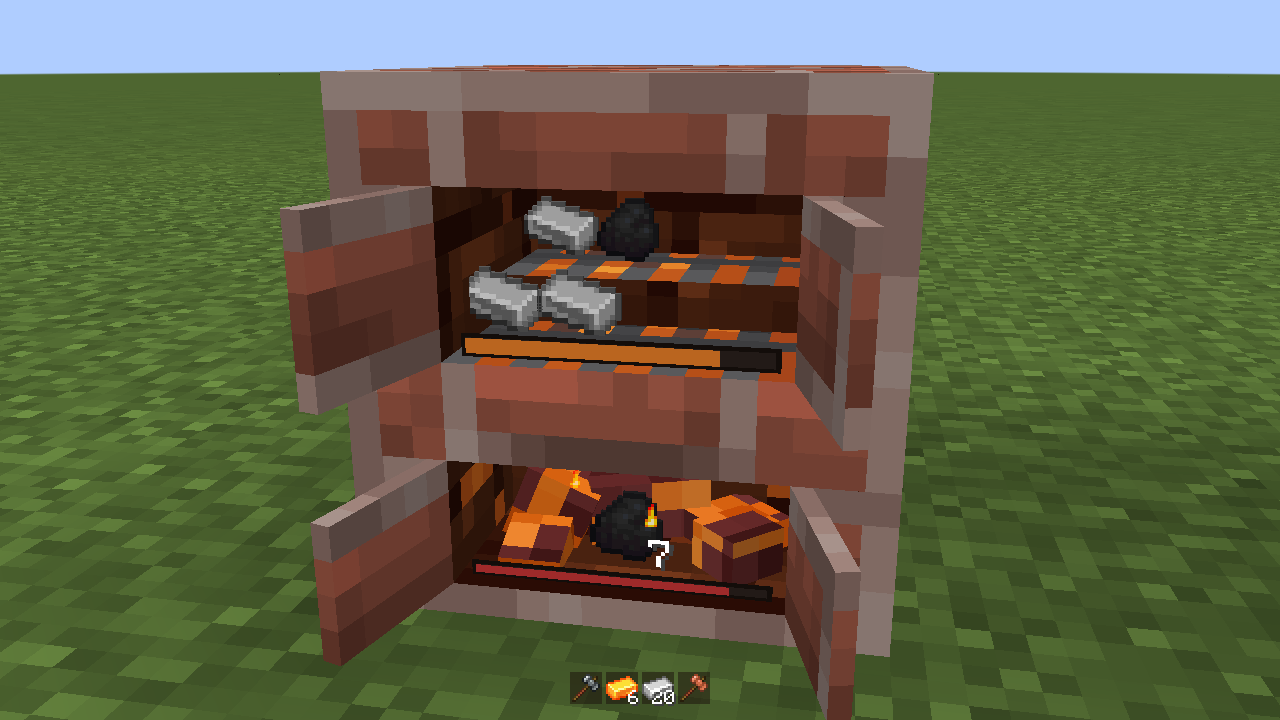
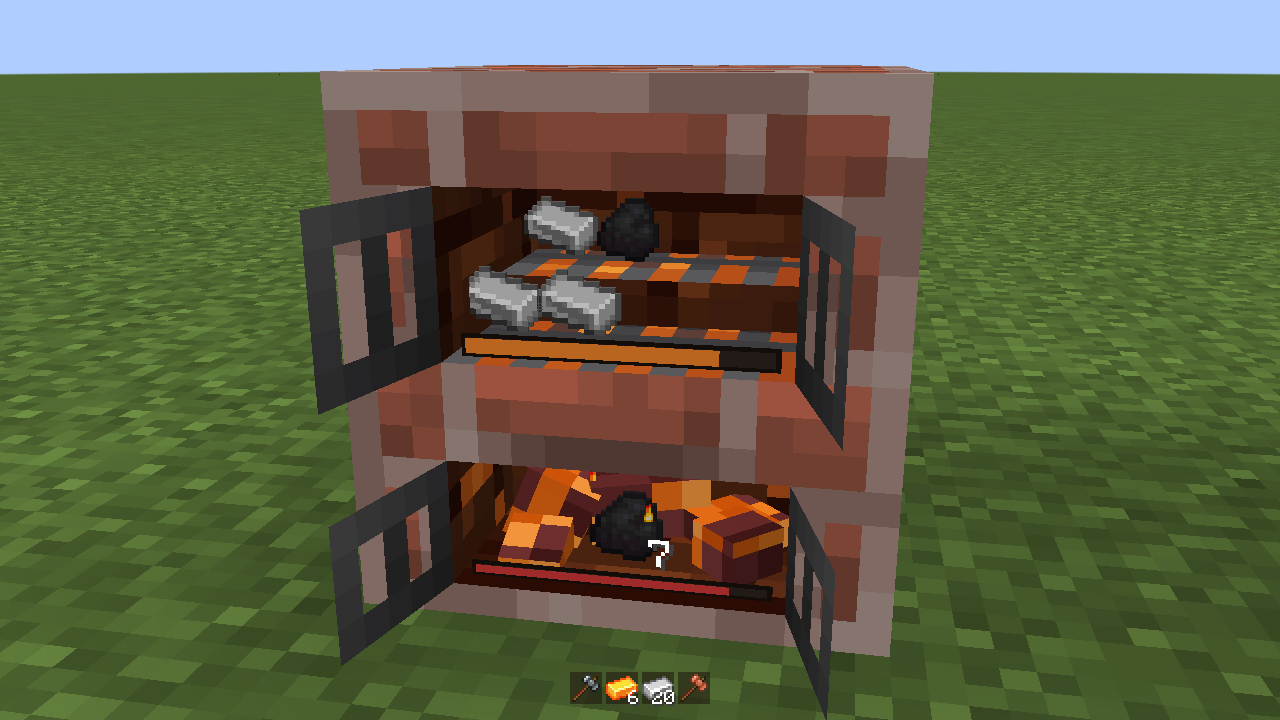
Furnace doors are iron grilles, as Hands-On Vanilla's; 0.2.2
Each leaf is an iron frame with bars and open gaps (cutout), seen through
to the furnace behind, the same for every furnace.

Claude-Session: https://claude.ai/code/session_01BQEUemARYQYQZPmNhrfX44

diff --git a/README.md b/README.md
@@ -17,7 +17,7 @@ with no menu screen.
   and moves them, exactly as in Overgeared's minigame, with its settings, difficulties and quality thresholds. A floating
   *PERFECT! / GOOD / MISS* shows how each blow landed; at the last one the piece is made with its quality.
 - **The furnaces.** The alloy furnace, the nether alloy furnace and the casting furnace open as the furnace of
-  Hands-On Vanilla: the block steps aside for a copy whose double doors swing open on its mouth and its firebox, cut where
+  Hands-On Vanilla: the block steps aside for a copy whose iron grille doors (after Hands-On Vanilla's) swing open on its mouth and its firebox, cut where
   Overgeared's own front draws them. What smelts stands on the grate in the mouth (two rows, the back one on a raised
   ledge), the result at its right, the fuel among the coals of the firebox. While it burns the lining and the grate glow,
   the coals turn to embers and flames lick up; a strip on the grate's front lip fills as it smelts, one on the firebox's
